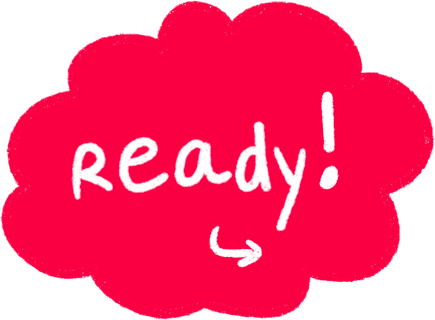
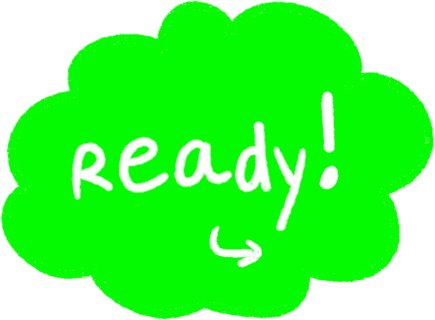
[Design][Gameplay] Reimport Player Prefab & Ready bubble

diff --git a/Project Bunny/Assets/Scripts/Networking/RoomManager.cs b/Project Bunny/Assets/Scripts/Networking/RoomManager.cs
@@ -306,53 +306,57 @@ namespace Networking
 
             Hashtable playerProperties = PhotonNetwork.LocalPlayer.CustomProperties;
 
-        if (playerProperties.ContainsKey("hatIndex"))
-        {
-            player.photonView.RPC("SetHat", RpcTarget.AllBuffered, (int)playerProperties["hatIndex"]);
-        }
-
-        if (playerProperties.ContainsKey("hairIndex"))
-        {
-            if (playerProperties.ContainsKey("hairColorIndex"))
+            if (playerProperties.ContainsKey("hatIndex"))
             {
-                player.photonView.RPC("SetHair", RpcTarget.AllBuffered, (int)playerProperties["hairIndex"], (int)playerProperties["hairColorIndex"]);
+                player.photonView.RPC("SetHat", RpcTarget.AllBuffered, (int)playerProperties["hatIndex"]);
             }
 
-            if (playerProperties.ContainsKey(PhotonNetwork.LocalPlayer.UserId + "hairIndex"))
+            if (playerProperties.ContainsKey("hairIndex"))
             {
-                player.photonView.RPC("SetHair", RpcTarget.AllBuffered, (int)playerProperties["hairIndex"], 0);
+                if (playerProperties.ContainsKey("hairColorIndex"))
+                {
+                    player.photonView.RPC("SetHair", RpcTarget.AllBuffered, (int) playerProperties["hairIndex"],
+                        (int) playerProperties["hairColorIndex"]);
+                }
+
+                if (playerProperties.ContainsKey(PhotonNetwork.LocalPlayer.UserId + "hairIndex"))
+                {
+                    player.photonView.RPC("SetHair", RpcTarget.AllBuffered, (int) playerProperties["hairIndex"], 0);
+                }
             }
 
-        if (playerProperties.ContainsKey("pantIndex"))
-        {
-            if (playerProperties.ContainsKey("pantColorIndex"))
+            if (playerProperties.ContainsKey("pantIndex"))
             {
-                player.photonView.RPC("SetPants", RpcTarget.AllBuffered, (int)playerProperties["pantIndex"], (int)playerProperties["pantColorIndex"]);
+                if (playerProperties.ContainsKey("pantColorIndex"))
+                {
+                    player.photonView.RPC("SetPants", RpcTarget.AllBuffered, (int) playerProperties["pantIndex"],
+                        (int) playerProperties["pantColorIndex"]);
+                }
+
+                if (playerProperties.ContainsKey(PhotonNetwork.LocalPlayer.UserId + "coatIndex"))
+                {
+                    player.photonView.RPC("SetPants", RpcTarget.AllBuffered, (int) playerProperties["pantIndex"], 0);
+                }
             }
 
-            if (playerProperties.ContainsKey(PhotonNetwork.LocalPlayer.UserId + "coatIndex"))
+            if (playerProperties.ContainsKey("coatIndex"))
             {
-                player.photonView.RPC("SetPants", RpcTarget.AllBuffered, (int)playerProperties["pantIndex"], 0);
+                if (playerProperties.ContainsKey("coatColorIndex"))
+                {
+                    player.photonView.RPC("SetCoat", RpcTarget.AllBuffered, (int)playerProperties["coatIndex"], (int)playerProperties["coatColorIndex"]);
+                }
+                else
+                {
+                    player.photonView.RPC("SetCoat", RpcTarget.AllBuffered, (int)playerProperties["coatIndex"], 0);
+                }
             }
 
-        if (playerProperties.ContainsKey("coatIndex"))
-        {
-            if (playerProperties.ContainsKey("coatColorIndex"))
+            if (playerProperties.ContainsKey("skinColorIndex"))
             {
-                player.photonView.RPC("SetCoat", RpcTarget.AllBuffered, (int)playerProperties["coatIndex"], (int)playerProperties["coatColorIndex"]);
+                player.photonView.RPC("SetSkinColor", RpcTarget.AllBuffered, (int)playerProperties["skinColorIndex"]);
             }
-            else
-            {
-                player.photonView.RPC("SetCoat", RpcTarget.AllBuffered, (int)playerProperties["coatIndex"], 0);
-            }
-        }
-
-        if (playerProperties.ContainsKey("skinColorIndex"))
-        {
-            player.photonView.RPC("SetSkinColor", RpcTarget.AllBuffered, (int)playerProperties["skinColorIndex"]);
-        }
-        player.RestoreTeamlessColors_RPC();    
-        //CorrectNumberOfJerseys();
+            player.RestoreTeamlessColors_RPC();    
+            //CorrectNumberOfJerseys();
         }
 
         public override void OnPlayerEnteredRoom(Photon.Realtime.Player newPlayer)
